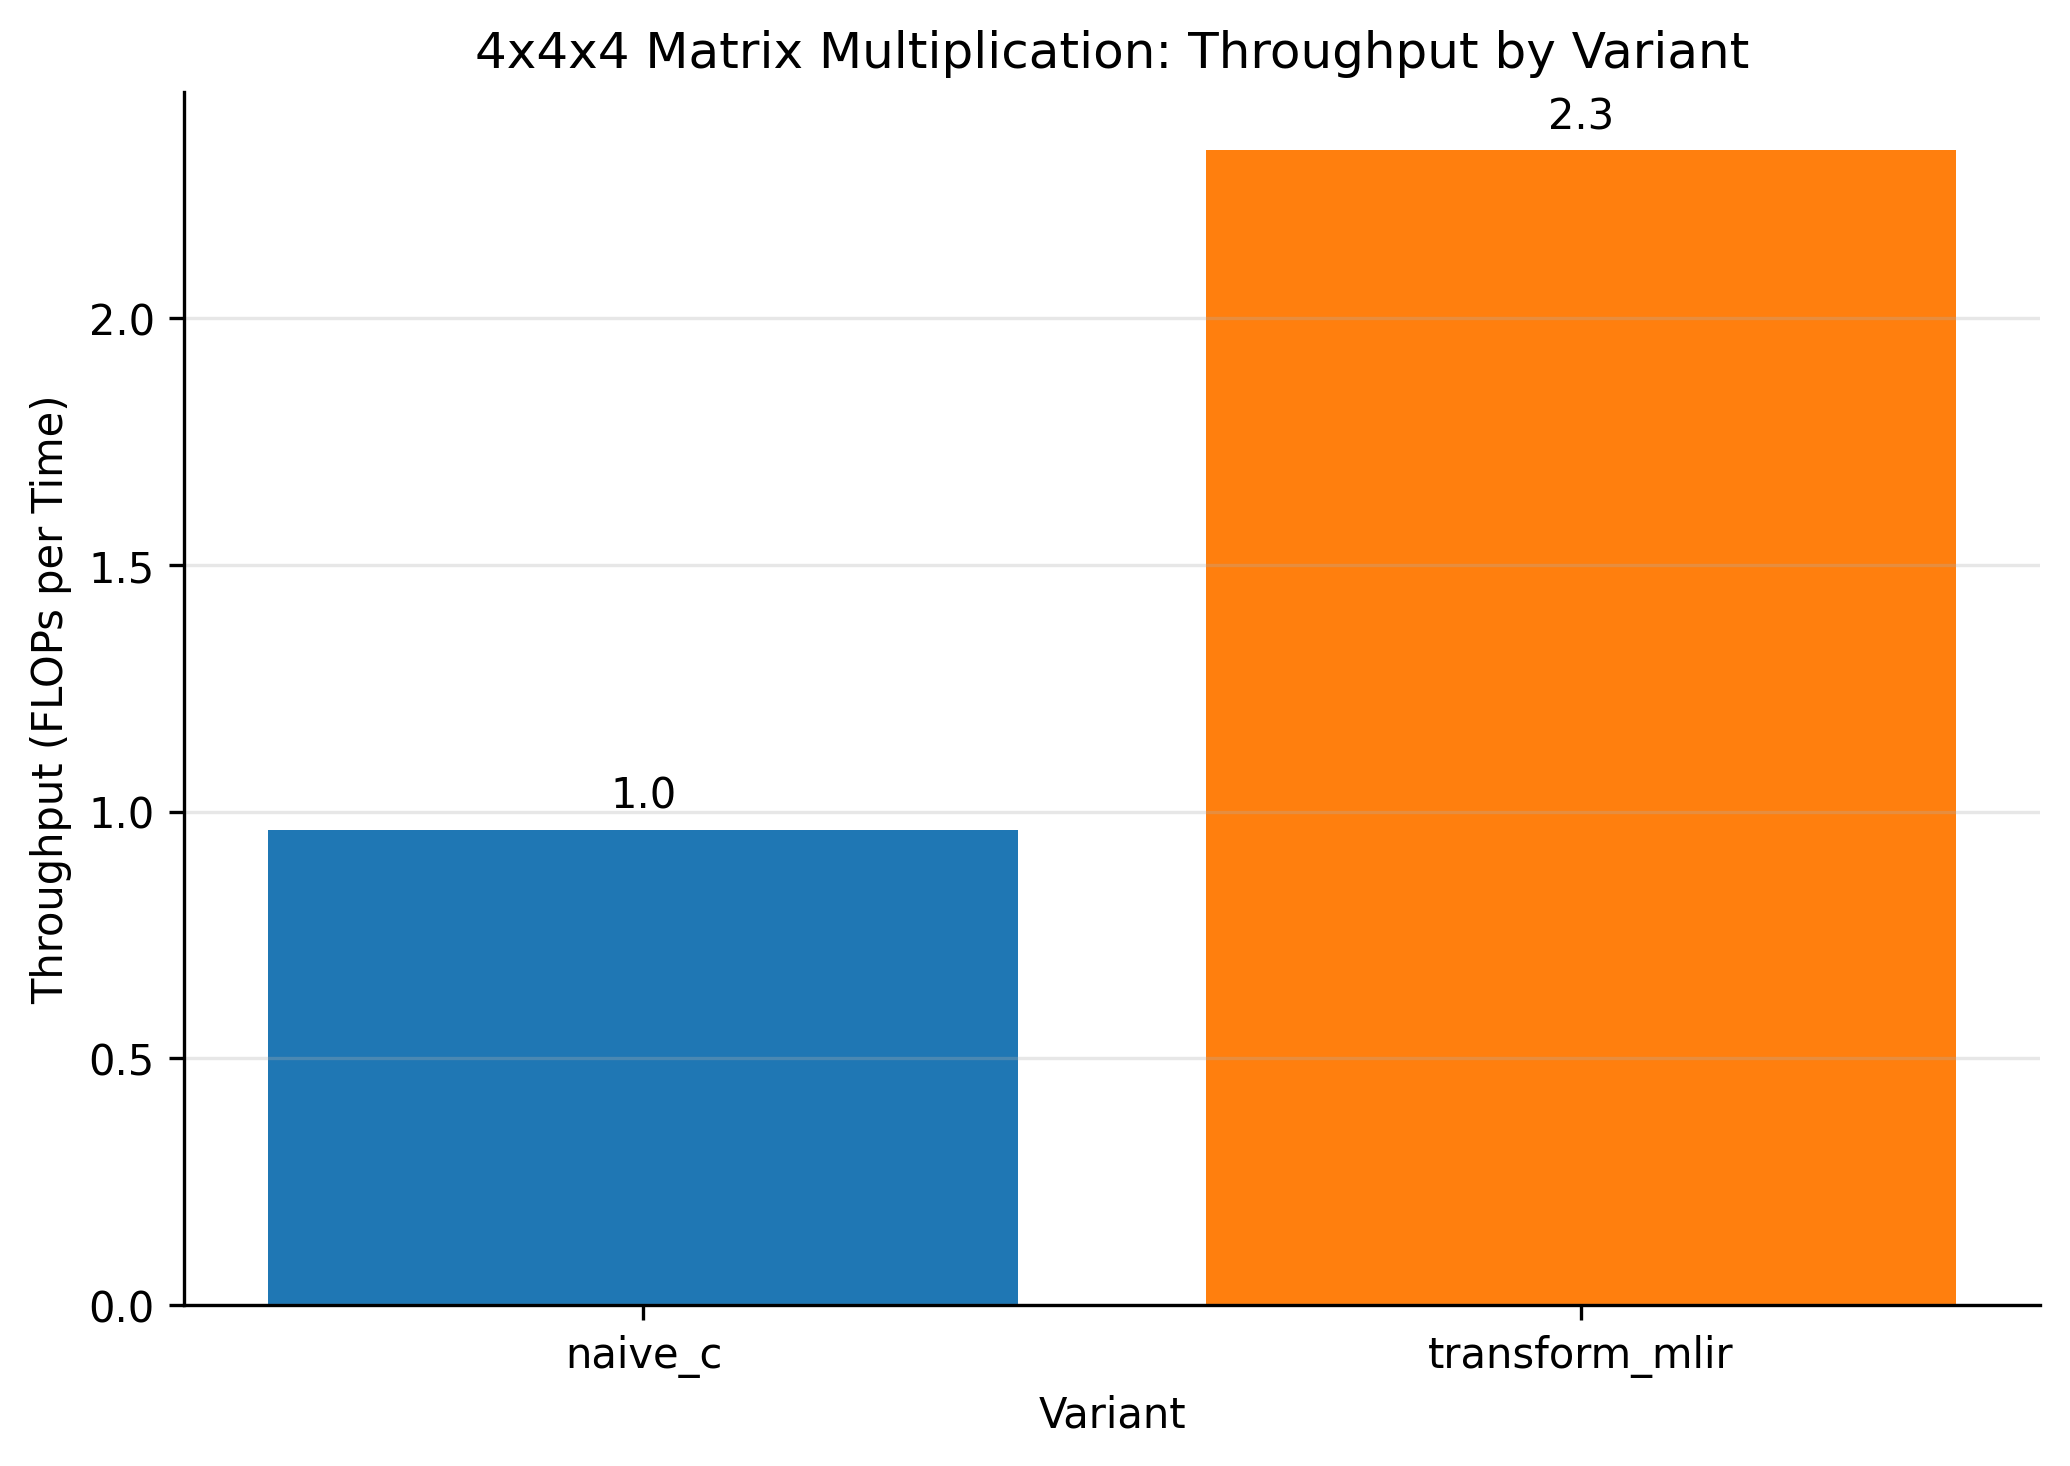
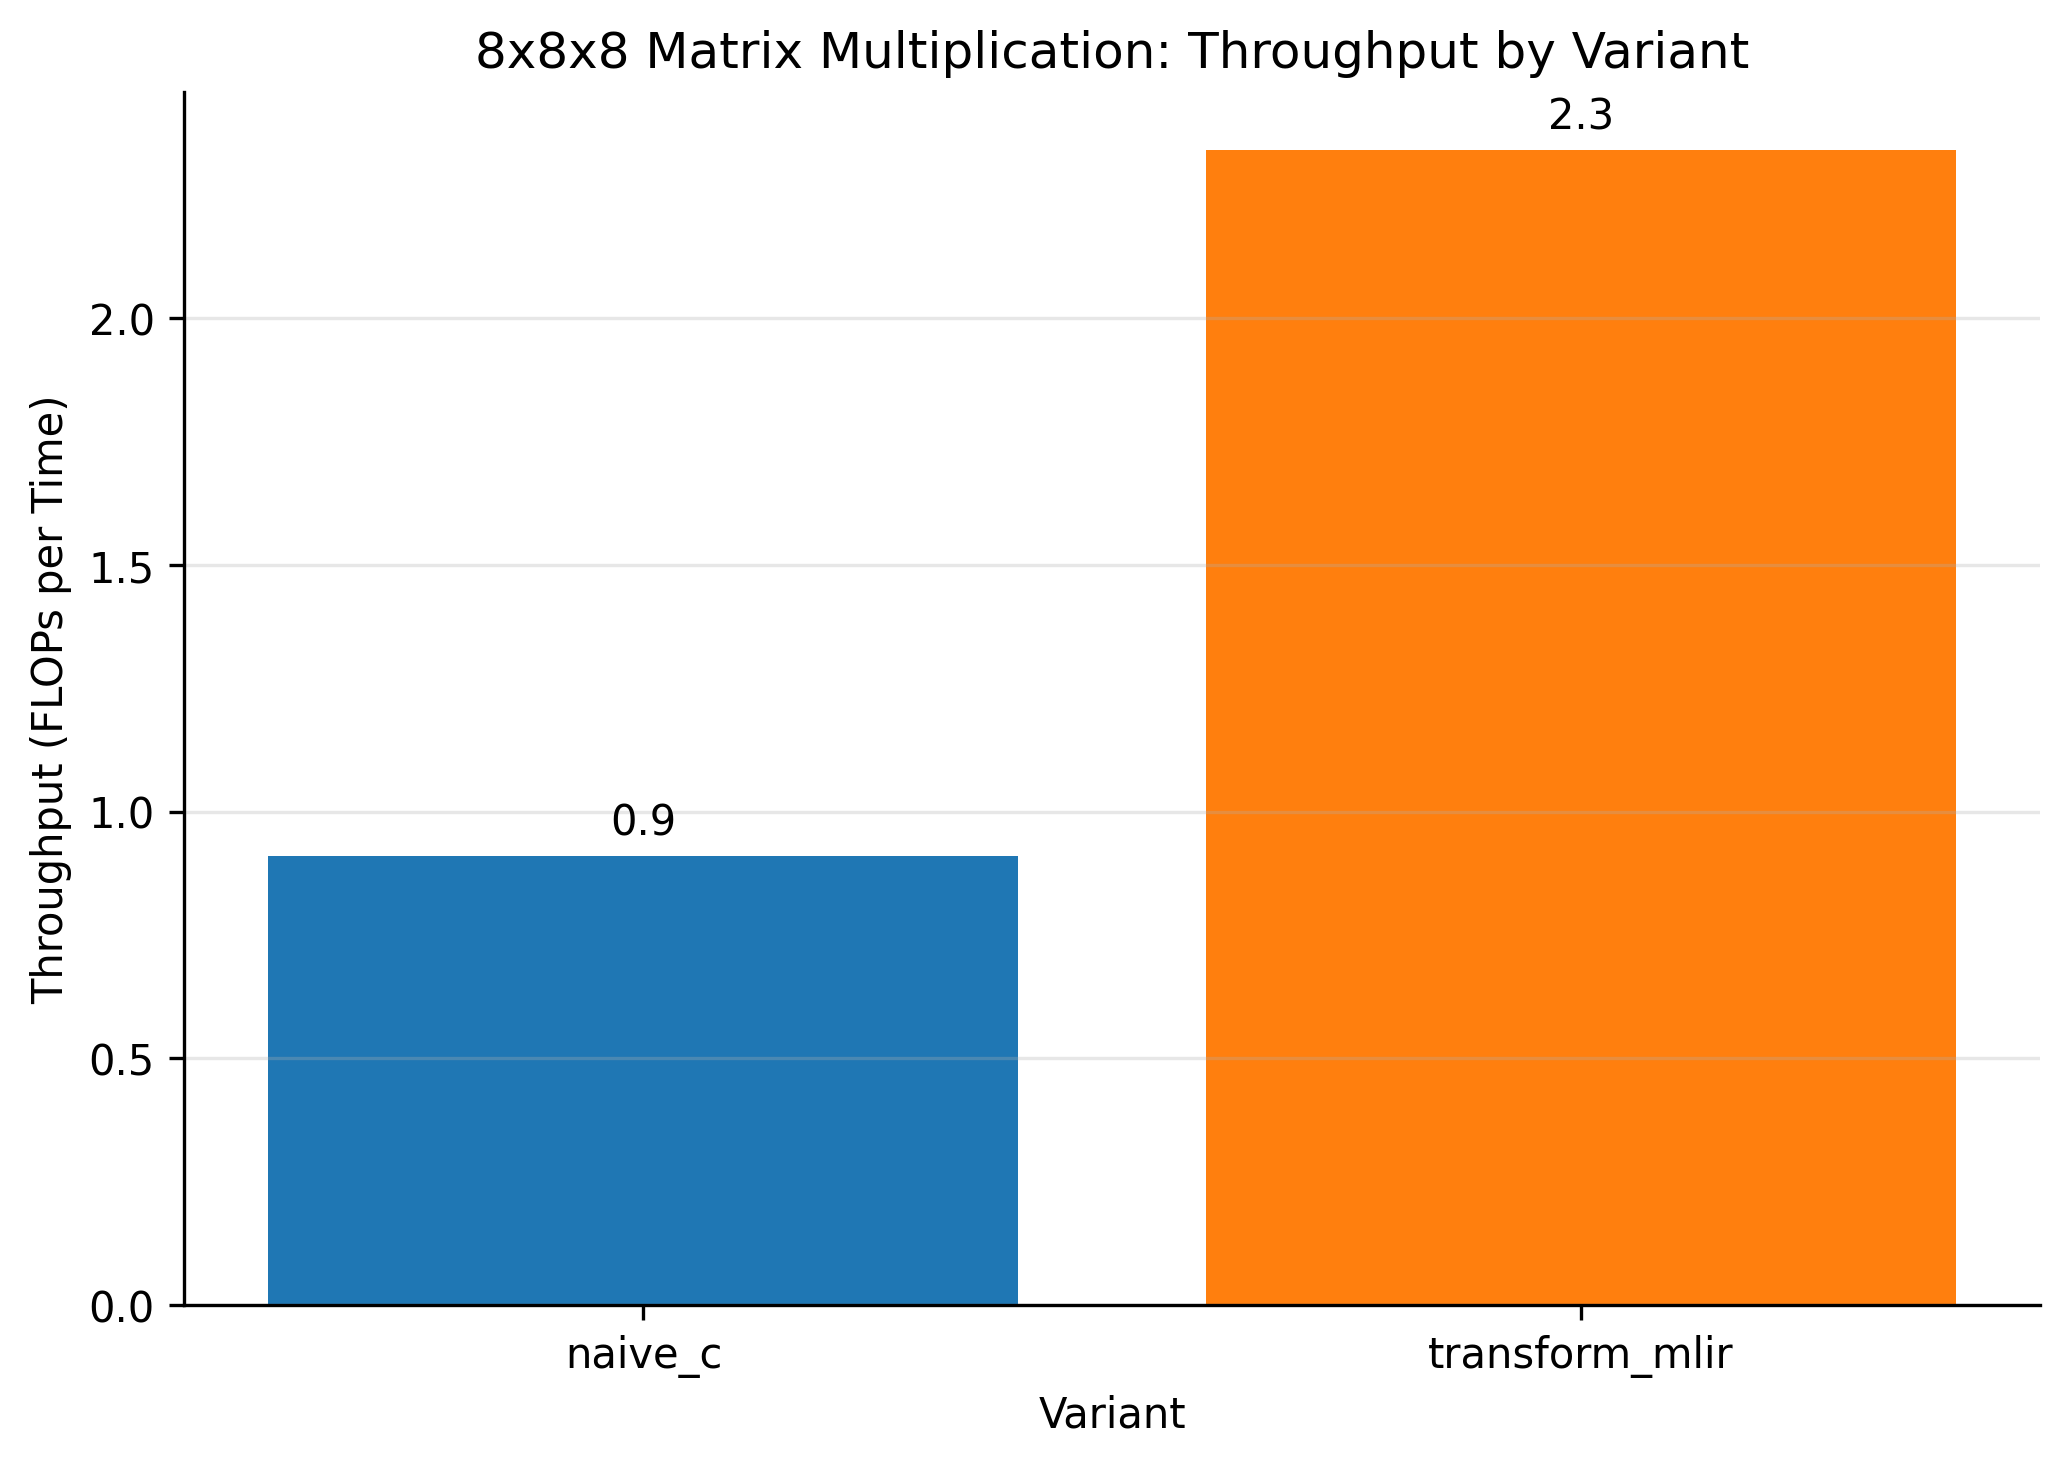
cube now 8x8x8

Changed region(s): [[0.1237, 0.5218, 0.4947, 0.5832], [0.2164, 0.0307, 0.3092, 0.0614]]

diff --git a/src/plot_cube.py b/src/plot_cube.py
@@ -40,7 +40,7 @@ def plot_cube_bar_chart(df: pd.DataFrame, output_file: Path | None = None):
 
     ax.set_xlabel("Variant")
     ax.set_ylabel("Throughput (FLOPs per Time)")
-    ax.set_title("4x4x4 Matrix Multiplication: Throughput by Variant")
+    ax.set_title("8x8x8 Matrix Multiplication: Throughput by Variant")
     ax.grid(axis="y", alpha=0.3)
     ax.set_ylim(bottom=0)
     ax.spines["top"].set_visible(False)
@@ -56,7 +56,7 @@ def plot_cube_bar_chart(df: pd.DataFrame, output_file: Path | None = None):
 def main():
     import argparse
 
-    parser = argparse.ArgumentParser(description="Plot 4x4x4 performance bar chart.")
+    parser = argparse.ArgumentParser(description="Plot 8x8x8 performance bar chart.")
     parser.add_argument("input", type=Path, help="Input JSONL data file")
     parser.add_argument(
         "--output",
